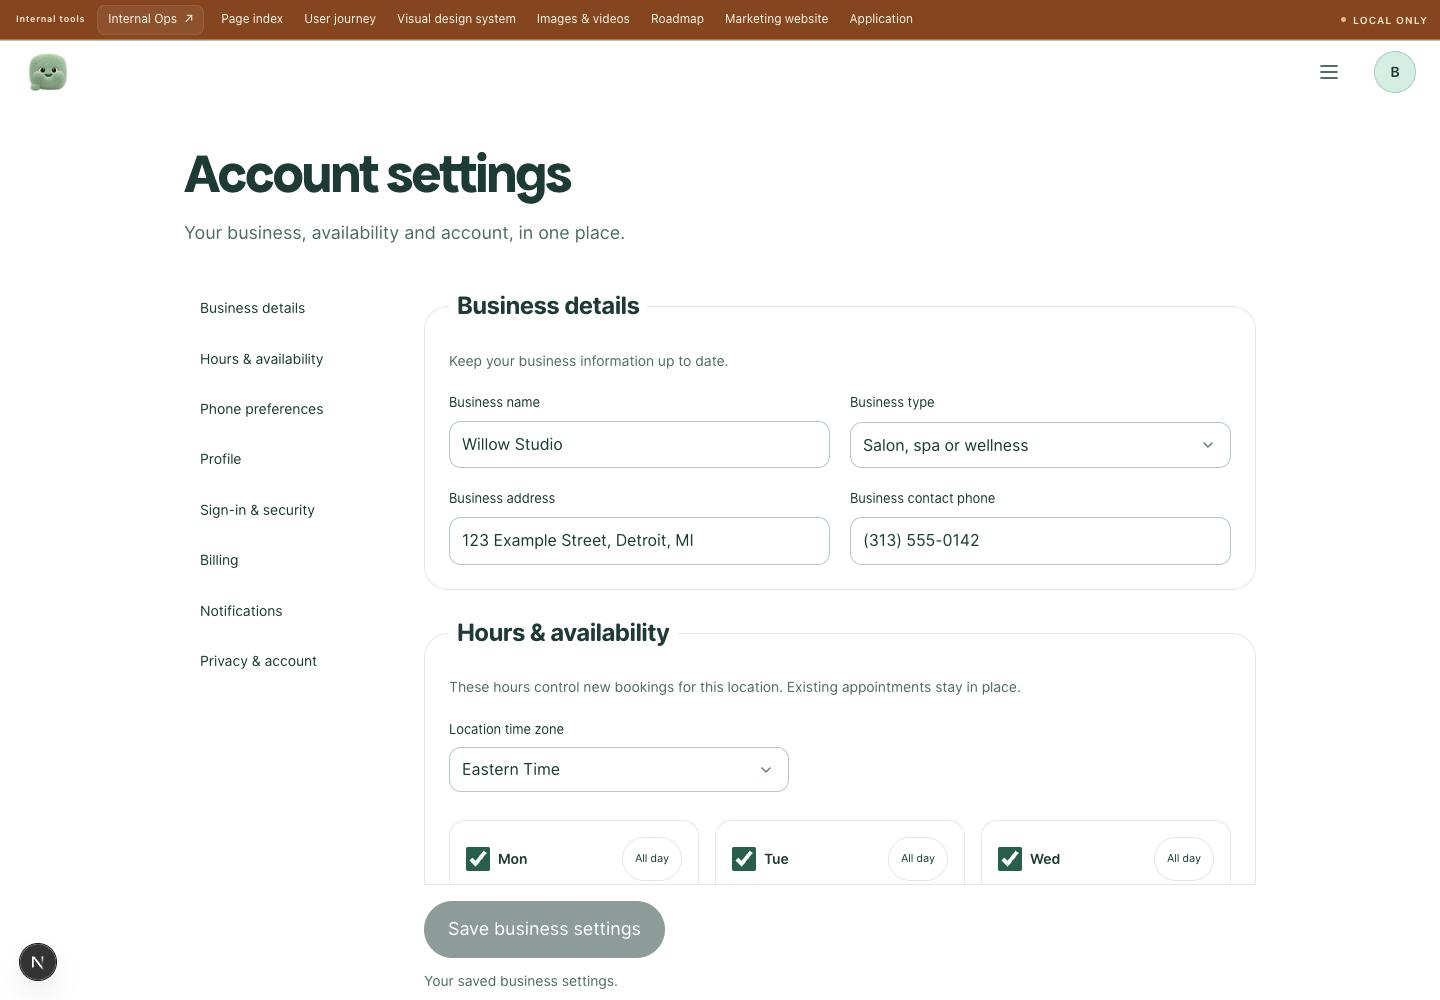
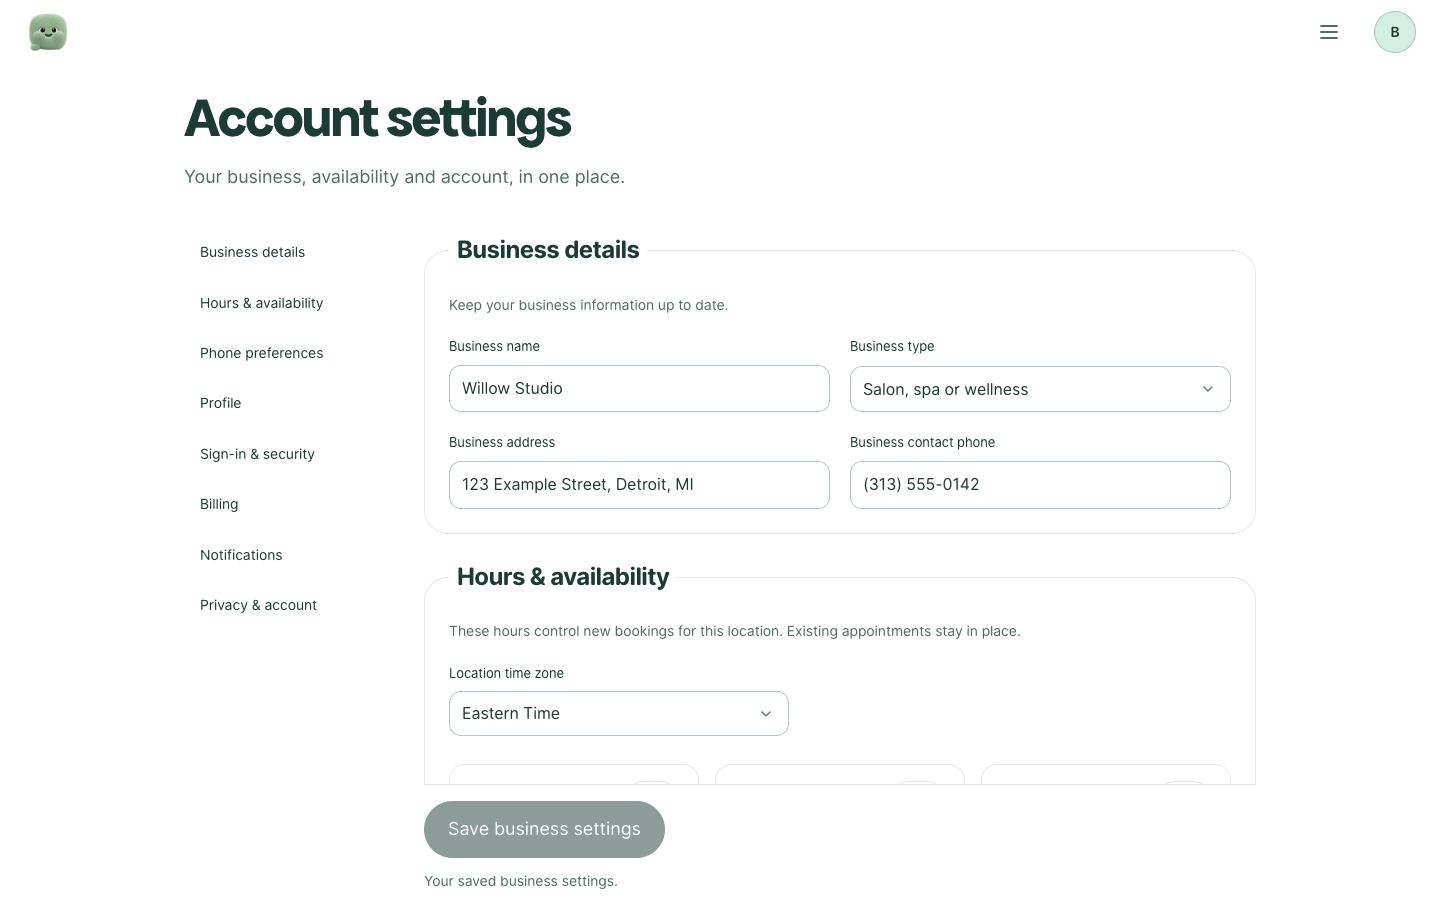
Refresh application page thumbnails without internal toolbars

diff --git a/NOW.md b/NOW.md
@@ -1,5 +1,11 @@
 # NOW
 
+## Current handoff — clean application thumbnails (12 September 2026)
+
+- Refreshed Account settings, Welcome & business setup, Hours & availability and Review & setup with actual example screens; internal toolbar and development badges are excluded from captures.
+- All four images use matching 1440 × 900 crops and compressed JPEGs (about 61–73 KB each). Verified that existing Page Index cards load the new images and point to the correct screen or section.
+- Thumbnail work is complete. Previous signed-in production acceptance remains next; application behavior and the parked mascot work are unchanged.
+
 ## Current handoff — responsive onboarding and editable account settings (12 September 2026)
 
 - Added persistent Business details, Hours & availability and Phone preferences in Account settings, reachable from the dashboard/menu. Owner saves preserve bookings, provider IDs, phone connections and billing, with stale-save protection.
